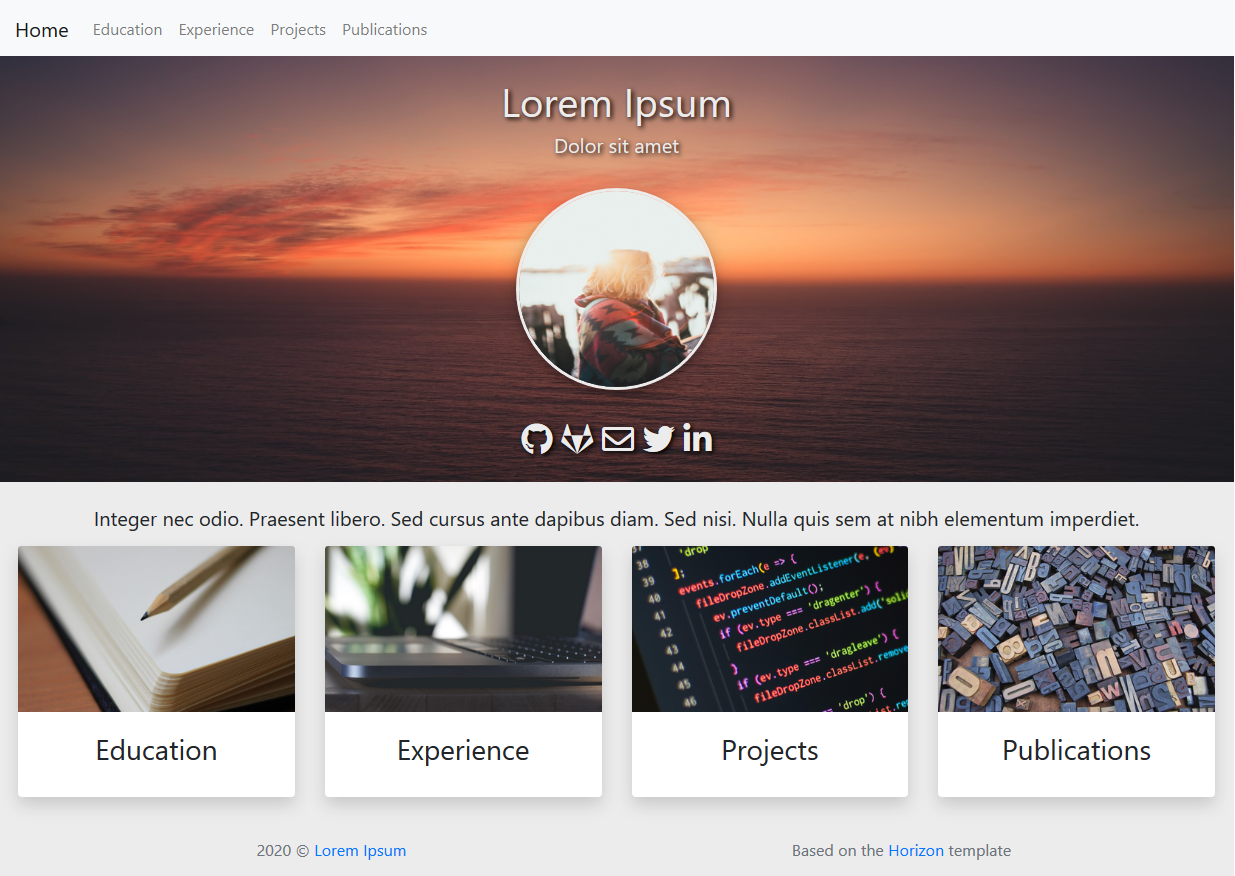
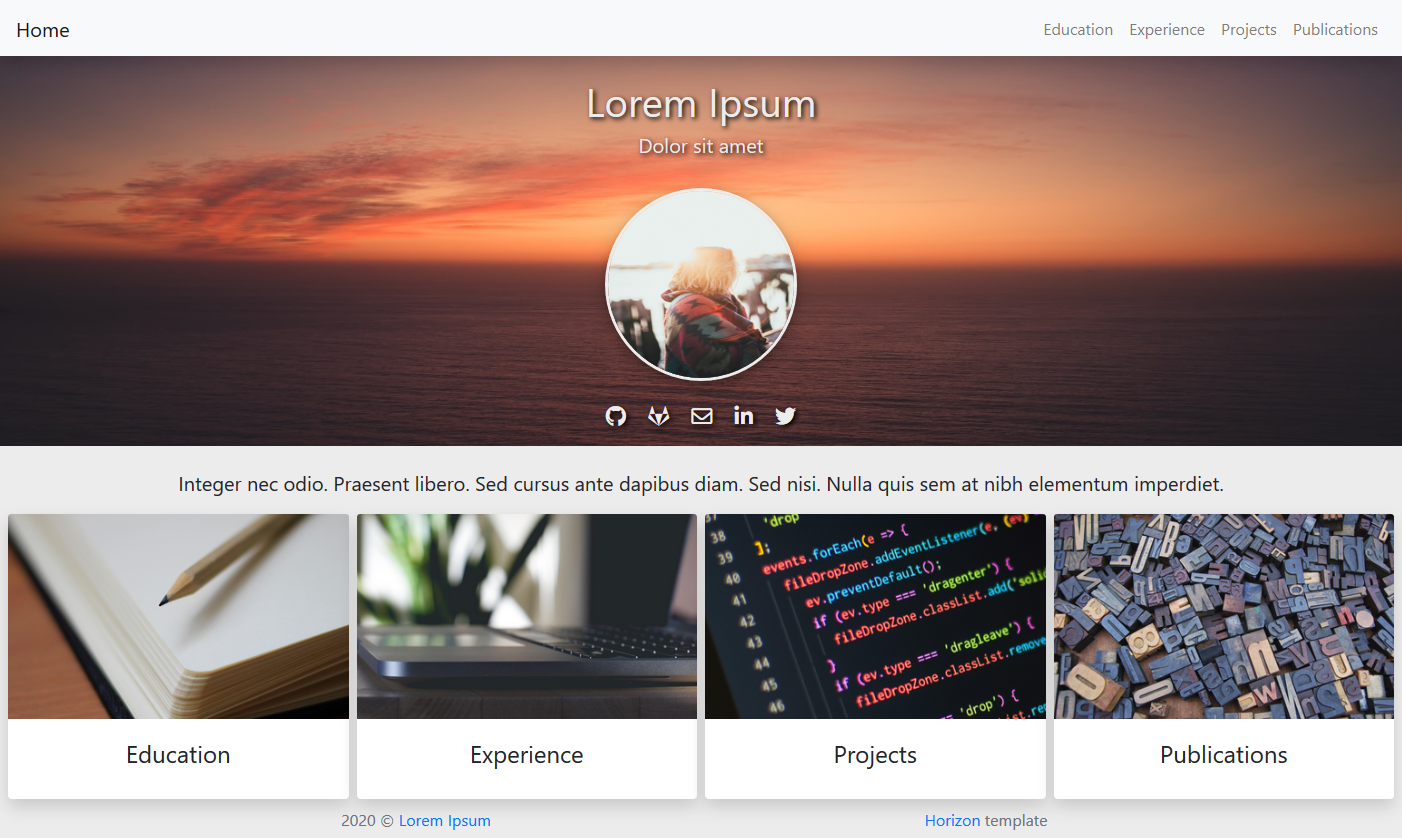
Update style

diff --git a/_layouts/default.html b/_layouts/default.html
@@ -21,11 +21,11 @@
           <br><br>
           <div class="container text-center">
             <div class="fa-lg">
-              <i class="fab fa-github px-2"></i>
-              <i class="fab fa-gitlab px-2"></i>
-              <i class="far fa-envelope px-2"></i>
-              <i class="fab fa-twitter px-2"></i>
-              <i class="fab fa-linkedin-in px-2"></i>
+              <a class="social" href="{{ 'https://github.com/' | append: site.github }}" title="GitHub" target="_blank"><i class="fab fa-github px-2 social"></i></a>
+              <a class="social" href="{{ 'https://gitlab.com/' | append: site.gitlab }}" title="GitLab" target="_blank"><i class="fab fa-gitlab px-2 social"></i></a>
+              <a class="social" href="{{ 'mailto:' | append: site.email }}" title="Email" target="_blank"><i class="far fa-envelope px-2 social"></i></a>
+              <a class="social" href="{{ 'https://www.linkedin.com/in/' | append: site.linkedin }}" title="LinkedIn" target="_blank"><i class="fab fa-linkedin-in px-2 social"></i></a>
+              <a class="social" href="{{ 'https://twitter.com/' | append: site.twitter }}" title="Twitter" target="_blank"><i class="fab fa-twitter px-2 social"></i></a>
             </div>
           </div>
         </div>
@@ -38,7 +38,7 @@
 
       <div class="row text-center m-1">
         <div class="col-12 col-sm-6 col-lg-3 p-1">
-          <div class="card shadow border-0">
+          <div class="card card-hover shadow border-0">
             <img src="{{ 'assets/img/' | append: page.education-img }}" class="card-img-top" alt="...">
             <div class="card-body">
               <h4 class="card-title">Education</h4><a href="/education" class="stretched-link"></a>
@@ -46,7 +46,7 @@
           </div>
         </div>
         <div class="col-12 col-sm-6 col-lg-3 p-1">
-          <div class="card shadow border-0">
+          <div class="card card-hover shadow border-0">
             <img src="{{ 'assets/img/' | append: page.experience-img }}" class="card-img-top" alt="...">
             <div class="card-body">
               <h4 class="card-title">Experience</h4><a href="/experience" class="stretched-link"></a>
@@ -54,7 +54,7 @@
           </div>
         </div>
         <div class="col-12 col-sm-6 col-lg-3 p-1">
-          <div class="card shadow border-0">
+          <div class="card card-hover shadow border-0">
             <img src="{{ 'assets/img/' | append: page.projects-img }}" class="card-img-top" alt="...">
             <div class="card-body">
               <h4 class="card-title">Projects</h4><a href="/projects" class="stretched-link"></a>
@@ -62,7 +62,7 @@
           </div>
         </div>
         <div class="col-12 col-sm-6 col-lg-3 p-1">
-          <div class="card shadow border-0">
+          <div class="card card-hover shadow border-0">
             <img src="{{ 'assets/img/' | append: page.publications-img }}" class="card-img-top" alt="...">
             <div class="card-body">
               <h4 class="card-title">Publications</h4><a href="/publications" class="stretched-link"></a>

diff --git a/_layouts/section.html b/_layouts/section.html
@@ -13,7 +13,7 @@
     <main>
 
       <div class="card m-2 shadow border-0 mb3">
-        <img class="card-img-top" src="{{ 'assets/img/' | append: page.image }}" alt="Card image cap">
+        <img class="card-img-top card-img-big" src="{{ 'assets/img/' | append: page.image }}" alt="Card image cap">
         <div class="card-body">
           <h1 class="card-title text-center">{{ page.title }}</h1>
           {{ content }}

diff --git a/assets/css/style.css b/assets/css/style.css
@@ -26,6 +26,24 @@ img.picture {
     height: 23vh;
 }
 
+.card-img-big {
+    height: 45vh;
+    object-fit: cover;
+}
+
+.card-hover:hover {
+    filter: brightness(98%);
+    transform: translateY(-1px);
+}
+
+.social {
+    color: #ececec;
+}
+.social:hover {
+    color: #ececec;
+    transform: scale(1.1);
+}
+
 body {
     overflow-y:scroll;
     background-color: #ececec;
